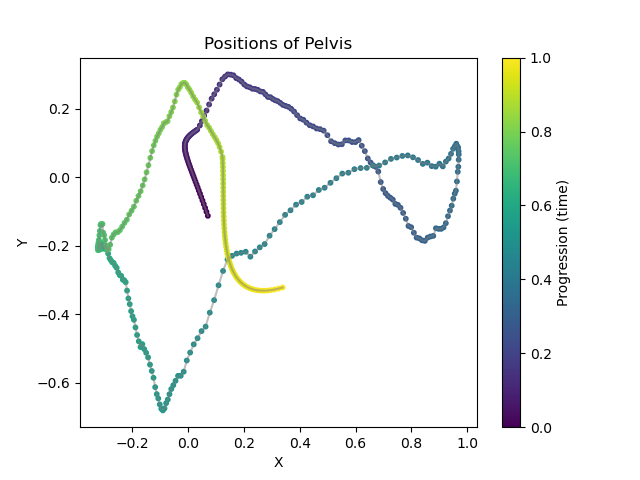
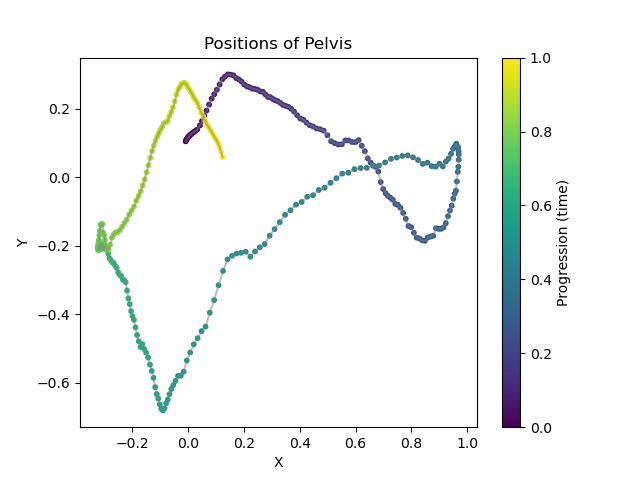
Adding infos for waltz dance as arguments and cropping movement to waltz part for trajectory plot

diff --git a/src/robot_waltz_from_niki.py b/src/robot_waltz_from_niki.py
@@ -12,6 +12,7 @@
 
 """Atlas v4 robot dancing waltz using joint positions etracted with the NIKI algorithm."""
 
+import argparse
 import joblib
 import numpy as np
 import pandas as pd
@@ -39,27 +40,9 @@ results = joblib.load('valse_constantin.pt')
 positions = results['pred_xyz_29']
 perfect_positions = False
 
-# Adjusting the sleep time to the music
-video_framerate = positions.shape[0]/14.03
-init_frame = 35.
-max_frame = positions.shape[0] - 55.
-MUSIC_BPM = 187
-total_movement_frames = max_frame - init_frame
-movement_duration_base_bpm = total_movement_frames/video_framerate
-turn_duration_new_bpm = 6*60/MUSIC_BPM
-movement_duration_new_bpm = 4*turn_duration_new_bpm
-new_bpm_framerate = total_movement_frames/movement_duration_new_bpm
-time_between_frames = 1/new_bpm_framerate
-
 # We do not use the rotation data, so that the inverse kinematics finds the optimal rotation to adapt to the movement
 element_markers = {"pelvis": 0, "r_hand": 26, "l_hand": 25, "head": 24, "r_foot": 28, "l_foot": 27}
-element_costs = {"pelvis": [1., 0.], "r_hand": [.7, 0.], "l_hand": [.7, 0.], "head": [1., 0.], "r_foot": [1.2, 0.], "l_foot": [1.2, 0.]}
-
-# Getting the optimal transformation matrix to align the movement with the (x, y) plane
-head_pose = positions[int(init_frame):, element_markers["head"]]
-pelvis_pose = positions[int(init_frame):, element_markers["pelvis"]]
-r_foot_pose = positions[int(init_frame):, element_markers["r_foot"]]
-l_foot_pose = positions[int(init_frame):, element_markers["l_foot"]]
+element_costs = {"pelvis": [1., 0.], "r_hand": [.7, 0.], "l_hand": [.7, 0.], "head": [1., 0.], "r_foot": [1., 0.], "l_foot": [1., 0.]}
 
 def get_transformation_matrix(values):
     """Get the transformation matrix from the parameters.
@@ -111,23 +94,7 @@ def apply_transformation(transformation_matrix, positions):
             
     return transformed_positions
 
-def cost(rot_angles):
-    trans_mat = get_transformation_matrix(rot_angles)
-    transformed_head = apply_transformation(transformation_matrix=trans_mat, positions=head_pose)
-    transformed_pelvis = apply_transformation(transformation_matrix=trans_mat, positions=pelvis_pose)
-    transformed_r_foot = apply_transformation(transformation_matrix=trans_mat, positions=r_foot_pose)
-    transformed_l_foot = apply_transformation(transformation_matrix=trans_mat, positions=l_foot_pose)
-
-    cost = np.sum(transformed_head[:, 2] - 1.5)**2
-    cost += np.sum(transformed_pelvis[:, 0] - transformed_head[:, 0])**2
-    cost += np.sum(transformed_pelvis[:, 1] - transformed_head[:, 1])**2
-    cost += np.abs(np.sum(transformed_l_foot[:, 2]))
-    cost += np.abs(np.sum(transformed_r_foot[:, 2]))
-    # cost = np.var(transformed_pelvis[:, 2])
-    # cost += np.mean(transformed_feet[:, 1] - transformed_head[:, 1])**2
-    return cost
-
-def get_positions_of_base_frame(niki_positions, perfect_positions=False):
+def get_positions_of_base_frame(niki_positions, music_bpm, perfect_positions=False):
     """Get the positions of the base frame in the world frame.
     
     Args:
@@ -139,7 +106,7 @@ def get_positions_of_base_frame(niki_positions, perfect_positions=False):
     """
     if perfect_positions:
         # Paramètres de la musique
-        small_circle_duration = 6*60/MUSIC_BPM
+        small_circle_duration = 6*60/music_bpm
         print(f"Durée d'un petit cercle : {small_circle_duration:.2f} secondes")
 
         # Paramètres pour le mouvement circulaire (petit cercle)
@@ -179,54 +146,84 @@ def get_positions_of_base_frame(niki_positions, perfect_positions=False):
     base_frame_positions = np.concatenate((x_total.reshape(-1, 1), y_total.reshape(-1, 1), z_total.reshape(-1, 1)), axis=1)
     return base_frame_positions
 
-values_0 = [np.pi, 0., -np.pi/2, 0., 0., 1., 2., 2., 2.]
-# values_opt = fmin_bfgs(cost, values_0)
-trans_mat = get_transformation_matrix(values_0)
+def animate_robot_dancing(robot_name, music_bpm, init_frame=35., frames_cut_end=55., nb_turns_in_vid=4):
+    # Adjusting the sleep time to the music
+    max_frame = positions.shape[0] - frames_cut_end
+    total_movement_frames = max_frame - init_frame
+    turn_duration_new_bpm = 6*60/music_bpm
+    movement_duration_new_bpm = nb_turns_in_vid*turn_duration_new_bpm
+    new_bpm_framerate = total_movement_frames/movement_duration_new_bpm
+    time_between_frames = 1/new_bpm_framerate
+    
+    # Getting the optimal transformation matrix to align the movement with the (x, y) plane
+    head_pose = positions[int(init_frame):int(max_frame), element_markers["head"]]
+    pelvis_pose = positions[int(init_frame):int(max_frame), element_markers["pelvis"]]
+    r_foot_pose = positions[int(init_frame):int(max_frame), element_markers["r_foot"]]
+    l_foot_pose = positions[int(init_frame):int(max_frame), element_markers["l_foot"]]
 
-# Apply transformation matrix to all the positions
-transformed_positions = apply_transformation(transformation_matrix=trans_mat, positions=positions)
+    def cost(rot_angles):
+        trans_mat = get_transformation_matrix(rot_angles)
+        transformed_head = apply_transformation(transformation_matrix=trans_mat, positions=head_pose)
+        transformed_pelvis = apply_transformation(transformation_matrix=trans_mat, positions=pelvis_pose)
+        transformed_r_foot = apply_transformation(transformation_matrix=trans_mat, positions=r_foot_pose)
+        transformed_l_foot = apply_transformation(transformation_matrix=trans_mat, positions=l_foot_pose)
 
-nike_base_positions_orig = results['pred_cam_root']
-transformed_nike_base_positions = apply_transformation(transformation_matrix=trans_mat, positions=nike_base_positions_orig)
-base_frame_positions = get_positions_of_base_frame(niki_positions=transformed_nike_base_positions - transformed_nike_base_positions[0])
+        cost = np.sum(transformed_head[:, 2] - 1.5)**2
+        cost += np.sum(transformed_pelvis[:, 0] - transformed_head[:, 0])**2
+        cost += np.sum(transformed_pelvis[:, 1] - transformed_head[:, 1])**2
+        cost += np.abs(np.sum(transformed_l_foot[:, 2]))
+        cost += np.abs(np.sum(transformed_r_foot[:, 2]))
+        # cost = np.var(transformed_pelvis[:, 2])
+        # cost += np.mean(transformed_feet[:, 1] - transformed_head[:, 1])**2
+        return cost
 
-for t in range(transformed_positions.shape[0]):
-    transformed_positions[t] += base_frame_positions[t]
+    transformation_values = [np.pi, 0., -np.pi/2, 0., 0., 1., 2., 2., 2.]
+    # values_opt = fmin_bfgs(cost, values_0)
+    trans_mat = get_transformation_matrix(transformation_values)
 
-element_positions = {element: transformed_positions[:, element_markers[element]] for element in element_markers}
+    # Apply transformation matrix to all the positions
+    transformed_positions = apply_transformation(transformation_matrix=trans_mat, positions=positions)
 
+    nike_base_positions_orig = results['pred_cam_root']
+    transformed_nike_base_positions = apply_transformation(transformation_matrix=trans_mat, positions=nike_base_positions_orig)
+    base_frame_positions = get_positions_of_base_frame(niki_positions=transformed_nike_base_positions - transformed_nike_base_positions[0], music_bpm=music_bpm, perfect_positions=perfect_positions)
 
-class RobotElementPose:
-    """ Base class used to define the position of a robot element at a given time."""
-    def __init__(self, init_time: float, configuration: pink.Configuration, element_name: str):
-        """Initialize pose.
+    for t in range(transformed_positions.shape[0]):
+        transformed_positions[t] += base_frame_positions[t]
 
-        Args:
-            init: Initial transform from the element frame to the world frame.
-        """
-        self.init_time = init_time
-        self.element_name = element_name
-        init_config = configuration.get_transform_frame_to_world(element_name)
-        init_position = element_positions[element_name][int(init_time)]
-        self.init = init_config.copy()
-        self.init.translation = init_position
+    element_positions = {element: transformed_positions[:, element_markers[element]] for element in element_markers}
+    
+    class RobotElementPose:
+        """ Base class used to define the position of a robot element at a given time."""
+        def __init__(self, init_time: float, configuration: pink.Configuration, element_name: str):
+            """Initialize pose.
 
-    def at(self, t):
-        """Get element pose at a given time.
+            Args:
+                init: Initial transform from the element frame to the world frame.
+            """
+            self.init_time = init_time
+            self.element_name = element_name
+            init_config = configuration.get_transform_frame_to_world(element_name)
+            init_position = element_positions[element_name][int(init_time)]
+            self.init = init_config.copy()
+            self.init.translation = init_position
 
-        Args:
-            t: Time in seconds.
-        """
-        T = self.init.copy()
-        position = element_positions[self.element_name][int(t)]
-        # R = T.rotation
-        # R = np.dot(R, pin.utils.rpyToMatrix(0., 0., np.pi / 2))
-        # R = np.dot(R, pin.utils.rpyToMatrix(0., -np.pi, 0.))
-        # T.rotation = R
-        T.translation = position
-        return T
+        def at(self, t):
+            """Get element pose at a given time.
 
-    def get_element_positions(element_name):
+            Args:
+                t: Time in seconds.
+            """
+            T = self.init.copy()
+            position = element_positions[self.element_name][int(t)]
+            # R = T.rotation
+            # R = np.dot(R, pin.utils.rpyToMatrix(0., 0., np.pi / 2))
+            # R = np.dot(R, pin.utils.rpyToMatrix(0., -np.pi, 0.))
+            # T.rotation = R
+            T.translation = position
+            return T
+
+        def get_element_positions(element_name):
             """Get the list of positions for a specific element.
 
             Args:
@@ -236,10 +233,9 @@ class RobotElementPose:
                 positions: List of positions for the element.
             """
             return element_positions[element_name]
-
-if __name__ == "__main__":
+    
     robot = load_robot_description(
-        "atlas_v4_description", root_joint=pin.JointModelFreeFlyer()
+        robot_name, root_joint=pin.JointModelFreeFlyer()
     )
 
     # Initialize visualization
@@ -263,7 +259,7 @@ if __name__ == "__main__":
         )
         
     posture_task = PostureTask(
-        cost=1.e-1,  # [cost] / [rad]
+        cost=1e-1,  # [cost] / [rad]
     )
 
     tasks = [element_tasks[element] for element in element_markers]
@@ -318,3 +314,40 @@ if __name__ == "__main__":
             print("Restarting animation")
             t = init_frame
         time.sleep(time_between_frames)
+        
+if __name__ == "__main__":
+    parser = argparse.ArgumentParser(
+        description="Atlas v4 robot dancing waltz using joint positions etracted with the NIKI algorithm."
+    )
+    parser.add_argument(
+        "--robot_name",
+        type=str,
+        default="atlas_v4_description",
+        help="Robot name, e.g. 'atlas_v4_description'",
+    )
+    parser.add_argument(
+        "--bpm",
+        type=int,
+        default=187,
+        help="Beats per minute of the music",
+    )
+    parser.add_argument(
+        "--init_frame",
+        type=int,
+        default=35,
+        help="Initial frame of the video where the robot starts dancing",
+    )
+    parser.add_argument(
+        "--frames_cut_end",
+        type=int,
+        default=55,
+        help="Number of frames to cut at the end of the video",
+    )
+    parser.add_argument(
+        "--nb_turns_in_vid",
+        type=int,
+        default=4,
+        help="Number of waltz right turns in the video",
+    )
+    args = parser.parse_args()
+    animate_robot_dancing(args.robot_name, args.bpm, args.init_frame, args.frames_cut_end, args.nb_turns_in_vid)

diff --git a/src/plot_trajectories.py b/src/plot_trajectories.py
@@ -4,7 +4,7 @@ import matplotlib.cm as cm
 import numpy as np
 
 
-def plot_element_positions(element):
+def plot_element_positions(element, start_frame=35, cutoff_at_end=50):
     # Read element positions from file
     file = 'element_positions.csv'
     data = pd.read_csv(file)
@@ -15,6 +15,7 @@ def plot_element_positions(element):
         [float(coord) for coord in position.strip('[]').split()] 
         for position in positions
     ]
+    positions = positions[start_frame: len(positions) - cutoff_at_end]
     print(positions)
 
     # Extract x and y positions
